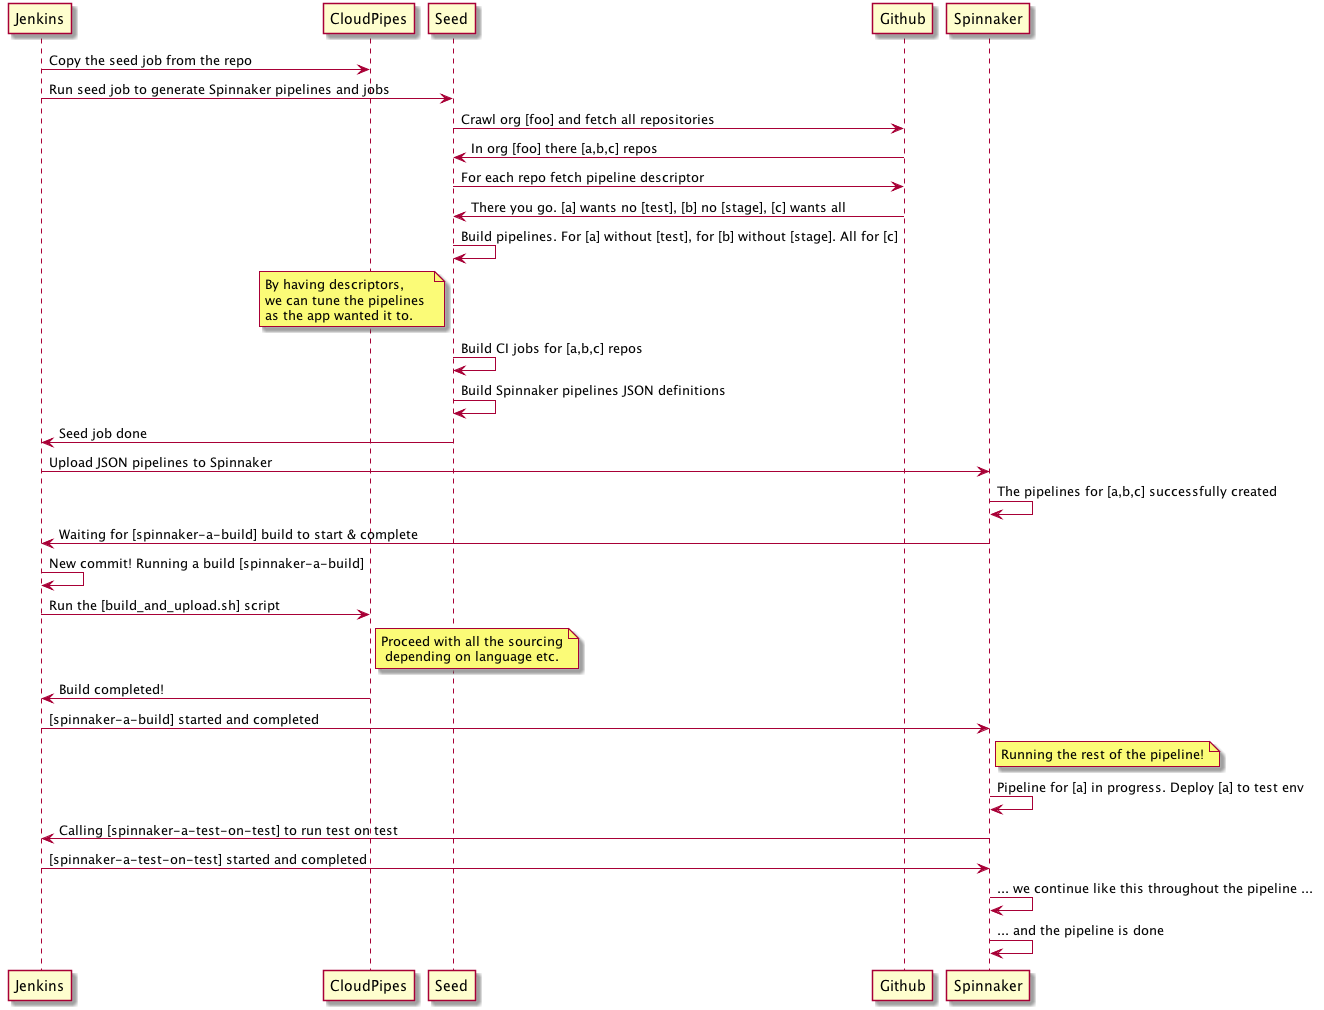
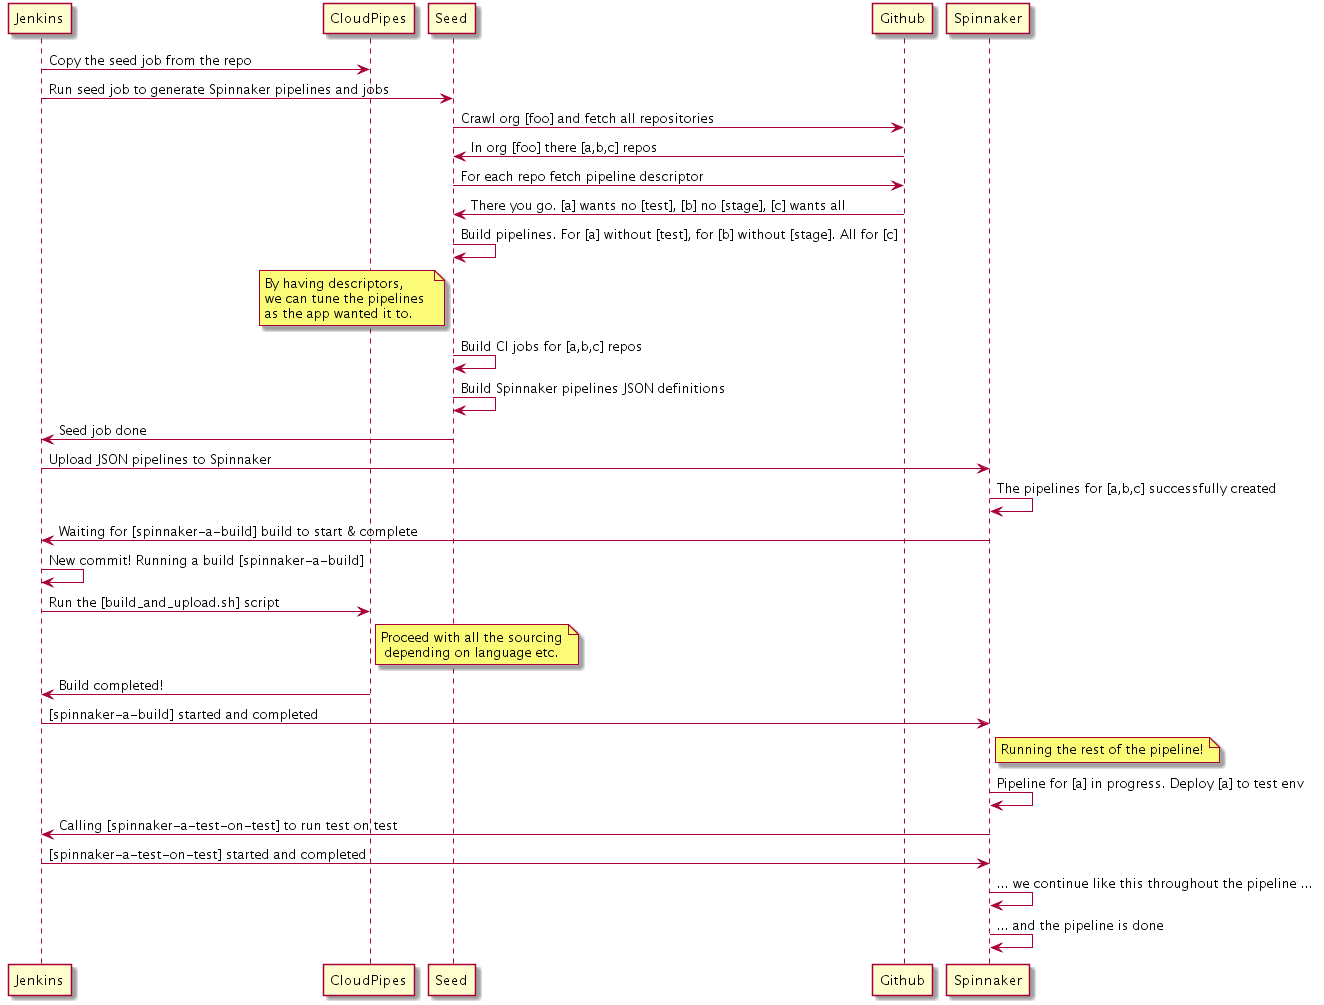
Sync docs

diff --git a/docs/DOCS.html b/docs/DOCS.html
@@ -660,7 +660,7 @@ library, which can:</p>
 </div>
 <div class="imageblock">
 <div class="content">
-<img src="crawler.png" alt="crawler" width="928" height="428">
+<img src="crawler.png" alt="crawler" width="928" height="425">
 </div>
 </div>
 <div class="paragraph">
@@ -682,7 +682,7 @@ the CI jobs (that is, build and test) and prepare the JSON definitions of Spinna
 </div>
 <div class="imageblock">
 <div class="content">
-<img src="spinnaker.png" alt="spinnaker" width="1324" height="1010">
+<img src="spinnaker.png" alt="spinnaker" width="1324" height="1005">
 </div>
 </div>
 </div>

diff --git a/docs/INTRO.html b/docs/INTRO.html
@@ -550,7 +550,7 @@ library, which can:</p>
 </div>
 <div class="imageblock">
 <div class="content">
-<img src="crawler.png" alt="crawler" width="928" height="428">
+<img src="crawler.png" alt="crawler" width="928" height="425">
 </div>
 </div>
 <div class="paragraph">
@@ -572,7 +572,7 @@ the CI jobs (that is, build and test) and prepare the JSON definitions of Spinna
 </div>
 <div class="imageblock">
 <div class="content">
-<img src="spinnaker.png" alt="spinnaker" width="1324" height="1010">
+<img src="spinnaker.png" alt="spinnaker" width="1324" height="1005">
 </div>
 </div>
 </div>

diff --git a/docs/index.html b/docs/index.html
@@ -660,7 +660,7 @@ library, which can:</p>
 </div>
 <div class="imageblock">
 <div class="content">
-<img src="crawler.png" alt="crawler" width="928" height="428">
+<img src="crawler.png" alt="crawler" width="928" height="425">
 </div>
 </div>
 <div class="paragraph">
@@ -682,7 +682,7 @@ the CI jobs (that is, build and test) and prepare the JSON definitions of Spinna
 </div>
 <div class="imageblock">
 <div class="content">
-<img src="spinnaker.png" alt="spinnaker" width="1324" height="1010">
+<img src="spinnaker.png" alt="spinnaker" width="1324" height="1005">
 </div>
 </div>
 </div>
